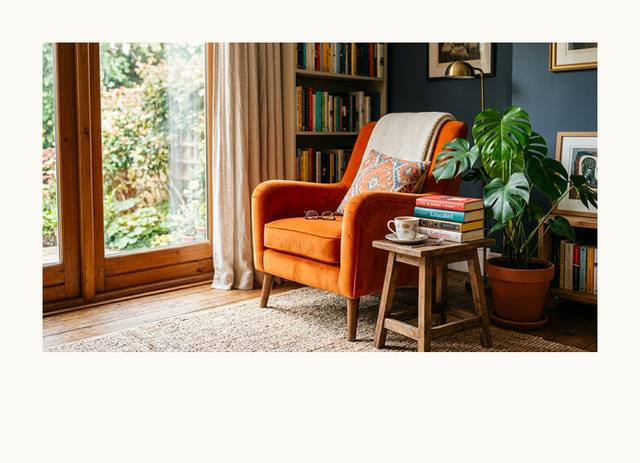
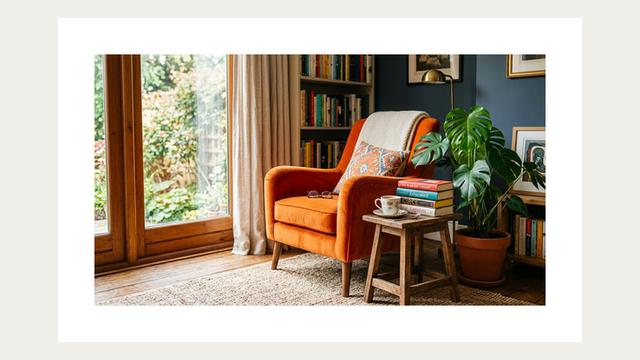
Previews v2: fixed HEIC/WebP/rotate/border demos (same-photo logic, real tool math), faster slider

diff --git a/src/app/tools/images/page.tsx b/src/app/tools/images/page.tsx
@@ -15,11 +15,11 @@ const PREVIEWS: Record<string, { before: string; after: string }> = {
   "favicon-generator": { before: "/previews/images/base-before.jpg", after: "/previews/images/favicon-after.jpg" },
   "image-cropper": { before: "/previews/images/base-before.jpg", after: "/previews/images/crop-after.jpg" },
   "image-resizer": { before: "/previews/images/base-before.jpg", after: "/previews/images/resize-after.jpg" },
-  "heic-to-jpg": { before: "/previews/images/selfie-before.jpg", after: "/previews/images/base-before.jpg" },
-  "webp-to-jpg": { before: "/previews/images/base-before.jpg", after: "/previews/images/convert-after.jpg" },
-  "png-to-webp": { before: "/previews/images/base-before.jpg", after: "/previews/images/convert-after.jpg" },
+  "heic-to-jpg": { before: "/previews/images/heic-before.jpg", after: "/previews/images/heic-after.jpg" },
+  "webp-to-jpg": { before: "/previews/images/webpjpg-before.jpg", after: "/previews/images/webpjpg-after.jpg" },
+  "png-to-webp": { before: "/previews/images/pngwebp-before.jpg", after: "/previews/images/pngwebp-after.jpg" },
   "exif-viewer": { before: "/previews/images/doc-before.jpg", after: "/previews/images/exif-after.jpg" },
-  "rotate-flip-image": { before: "/previews/images/selfie-before.jpg", after: "/previews/images/rotate-after.jpg" },
+  "rotate-flip-image": { before: "/previews/images/selfie-before-16x9.jpg", after: "/previews/images/rotate-after.jpg" },
   "grayscale-image": { before: "/previews/images/base-before.jpg", after: "/previews/images/grayscale-after.jpg" },
   "add-border": { before: "/previews/images/base-before.jpg", after: "/previews/images/border-after.jpg" },
   "merge-images": { before: "/previews/images/base-before.jpg", after: "/previews/images/merge-after.jpg" },

diff --git a/src/components/ToolPreview.tsx b/src/components/ToolPreview.tsx
@@ -26,10 +26,10 @@ export default function ToolPreview({
     let raf = 0;
     let last = 0;
     const loop = (t: number) => {
-      if (t - last > 40) {
-        // ~25fps suficiente; avança em ciclo
+      if (t - last > 30) {
+        // ~33fps; varredura completa em ~2s
         setPos((p) => {
-          let next = p + dirRef.current * 1.6;
+          let next = p + dirRef.current * 3.2;
           if (next >= 92) {
             next = 92;
             dirRef.current = -1;
